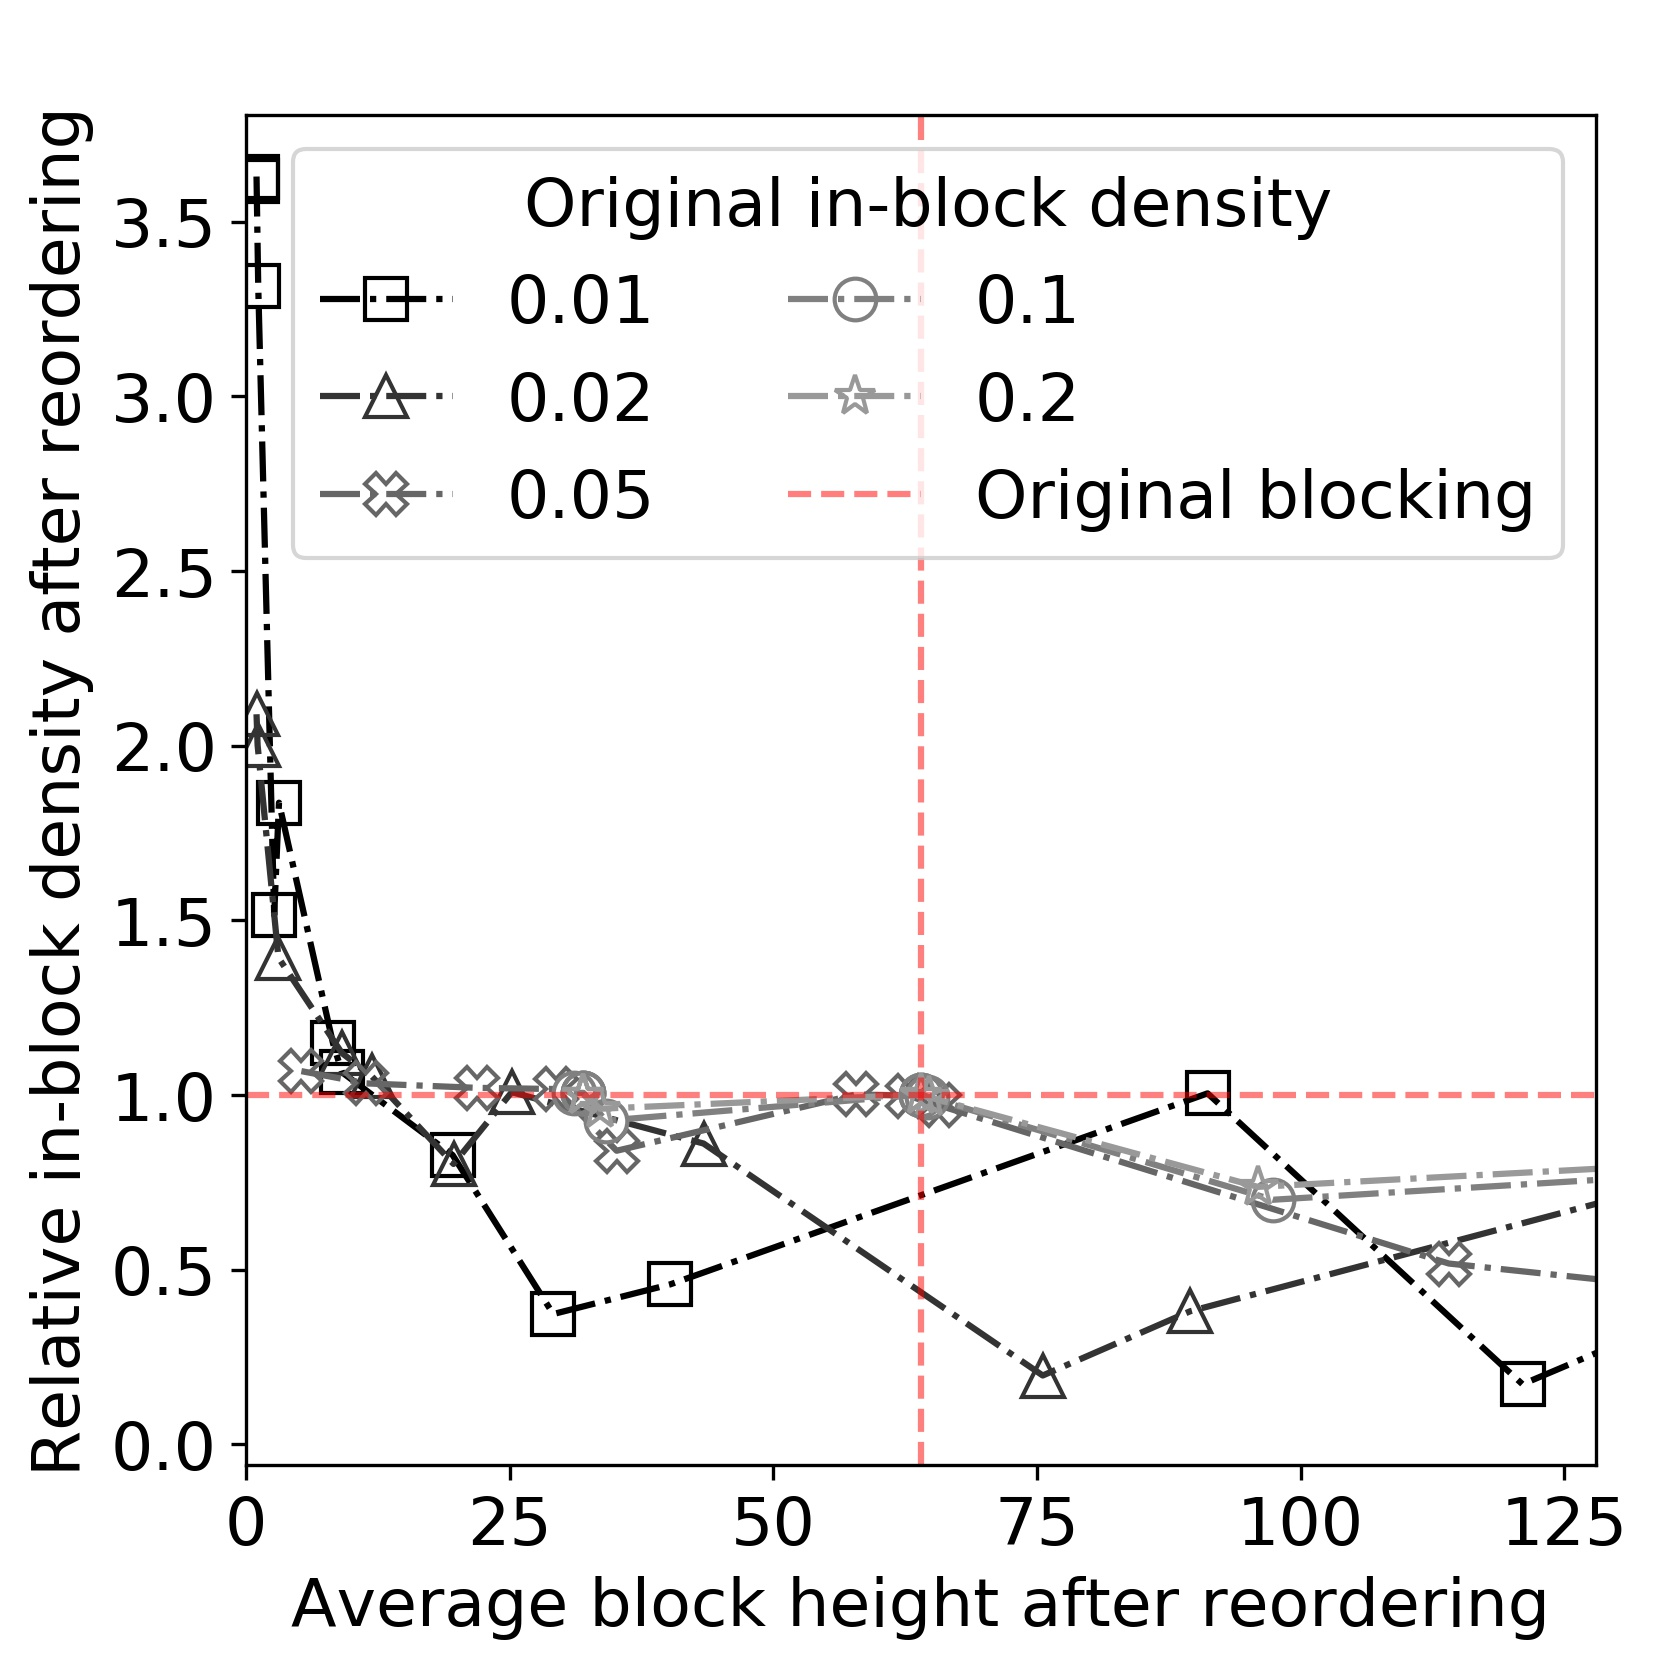
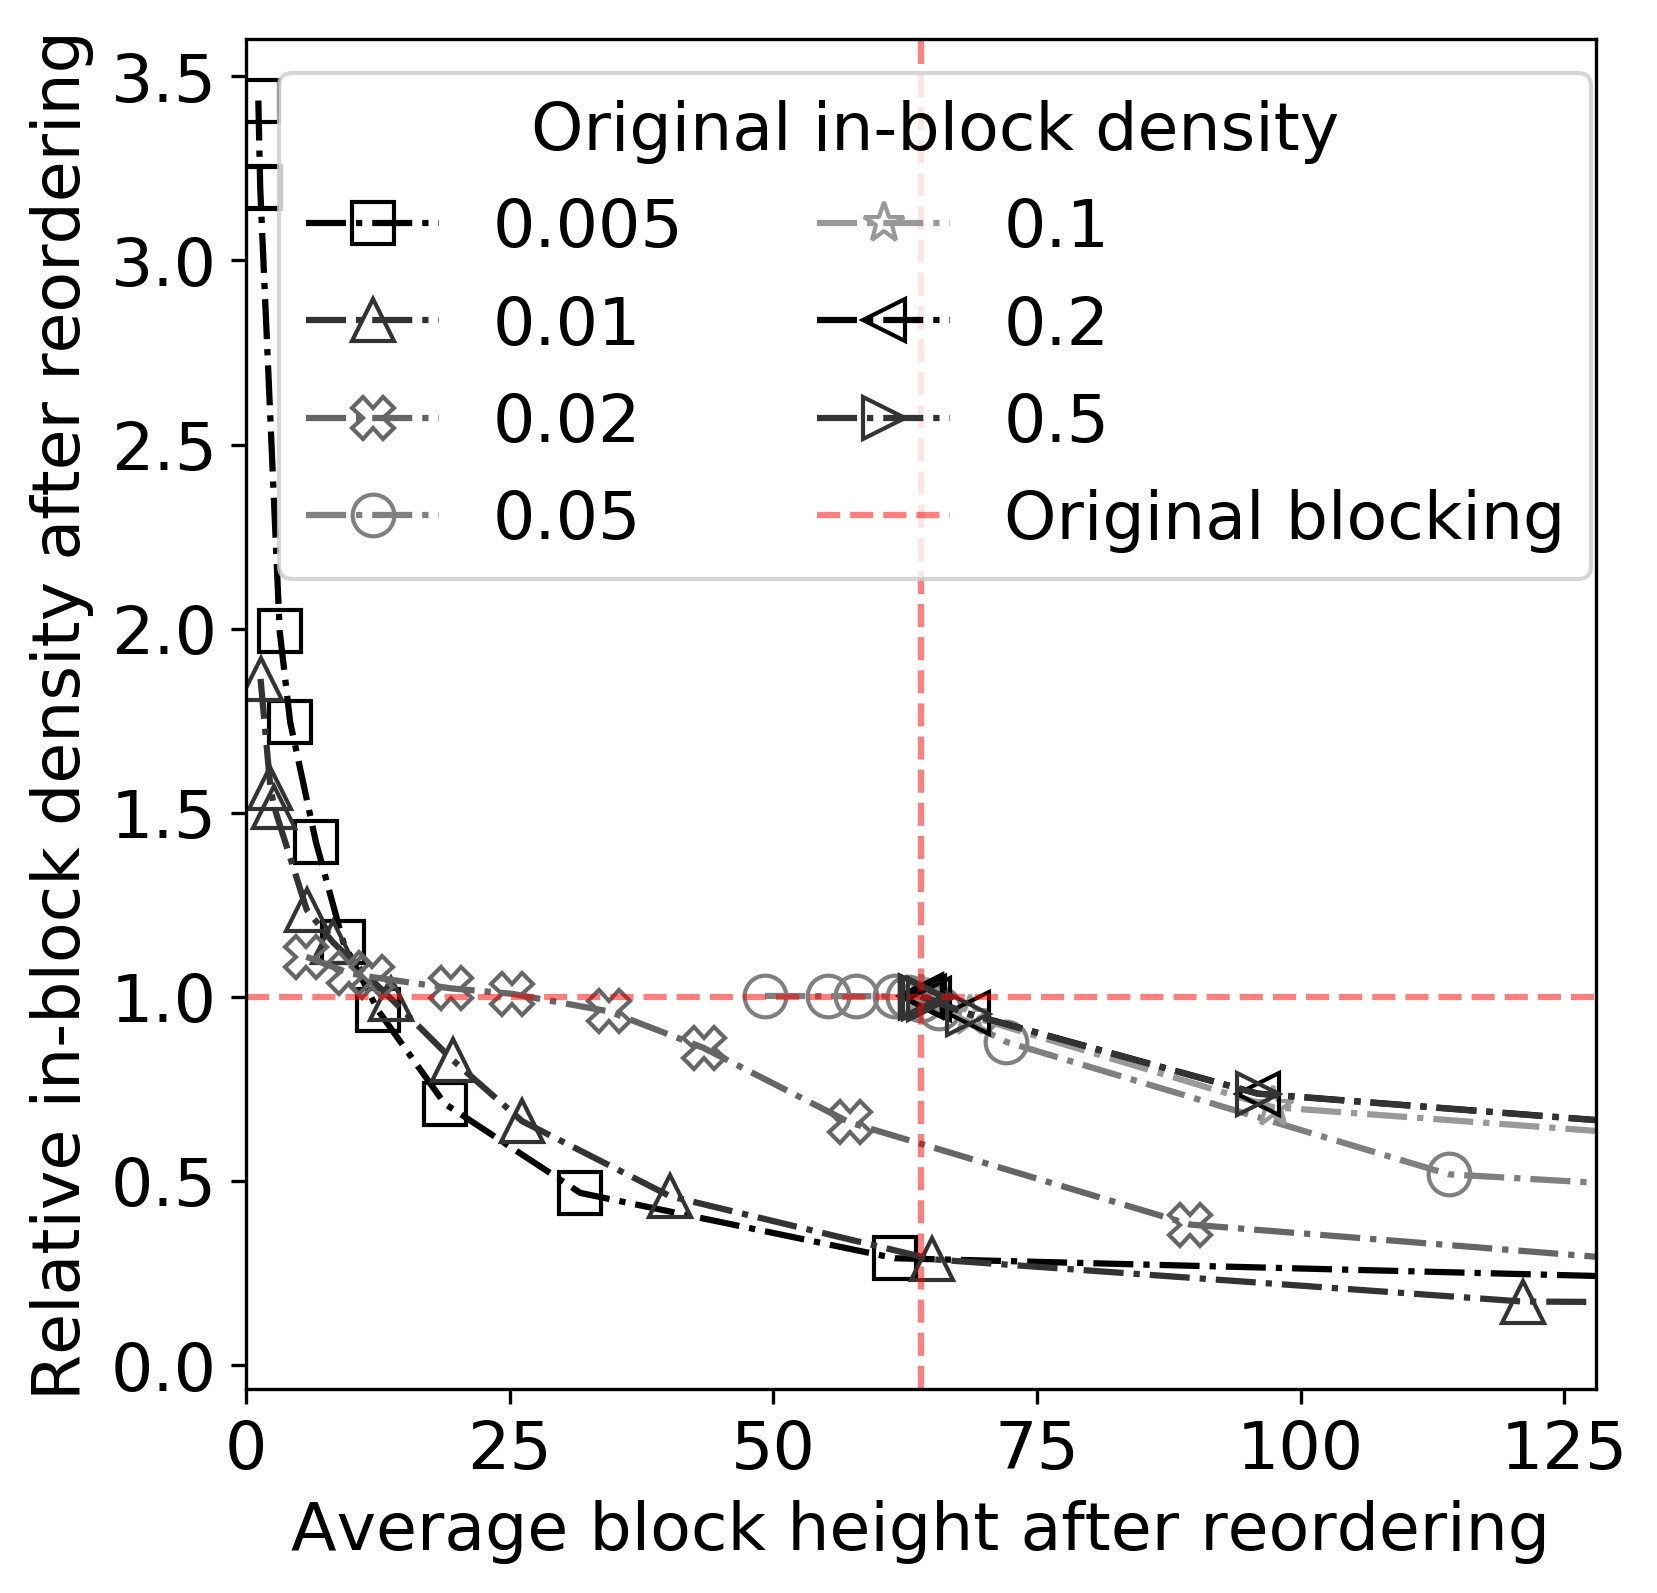
figs

Changed region(s): [[0.0, 0.0, 0.9849, 0.9843], [0.4925, 0.9535, 0.554, 0.9843]]

diff --git a/Pyhton_scripts/SPARTA_reorder_and_multiply_compare.py b/Pyhton_scripts/SPARTA_reorder_and_multiply_compare.py
@@ -38,14 +38,14 @@ if __name__ == "__main__":
     args = parser.parse_args()
 
     csvs = {};
-    csvs["SA"] = "../results/test_cublas_reordering-saad-01-07-2022.csv";
-    csvs["1-SA"] = "../results/test_cublas_reordering-12-16-2021.csv";
-    csvs["non_hierarchic"] = "../results/test_cublas_reordering-non-hierarchic-01-07-2022.csv";
-    csvs["cosine"] = "../results/test_cublas_reordering-scalar-01-06-2022.csv";
+    csvs["SA"] = "../results/test_cublas_reordering-saad-01-10-2022.csv";
+    csvs["1-SA"] = "../results/test_cublas_reordering-synthetic-01-11-2022.csv";
+    csvs["non_hierarchic"] = "../results/test_cublas_reordering-non-hierarchic-01-11-2022.csv";
+    csvs["cosine"] = "../results/test_cublas_reordering-scalar-01-10-2022.csv";
     
     
     
-    save_folder = "../images/paper_images/"
+    save_folder = "../images/paper_images_new/"
     output_dir = "../images/";
                     
     plt.rcParams['font.size'] = 16
@@ -94,7 +94,8 @@ if __name__ == "__main__":
     vardict_us = {"input_block_size" : 64, "merge_limit" : -1}
     vardict_them = {"input_block_size" : 64, "merge_limit" : 0}
 
-    compare_heatmap(dfs["1-SA"], dfs["cosine"], vardict_us, vardict_them)
+    compare_heatmap(dfs["1-SA"], dfs["cosine"], vardict_us, vardict_them, save_folder = save_folder)
+    compare_heatmap(dfs["1-SA"], dfs["SA"], vardict_us, vardict_them, save_folder = save_folder)
 
     
     variables_dict = {"rows": 8192, "cols": 8192, "input_blocks_density" : 0.1, "merge_limit" : 0}

diff --git a/Pyhton_scripts/SPARTA_reorder_and_multiply_analysis_real.py b/Pyhton_scripts/SPARTA_reorder_and_multiply_analysis_real.py
@@ -61,6 +61,18 @@ if do_all:
 
 save_folder = "../images/paper_images_real/"
 
-variables_dict = {"reorder_algorithm": "'saad_blocks'", "merge_limit" : 0, "epsilon" : 0.1, "B_cols" : 4096, "hierarchic_merge": 1}
+variables_dict = {"reorder_algorithm": "'saad_blocks'", "merge_limit" : -1, "epsilon" : 0.5, "B_cols" : 4096, "hierarchic_merge": 1}
 #real_blocking_curve(results_df, variables_dict, variable = "input_source")        
-bar_plot_together(results_df, variables_dict, save_folder = save_folder);
+#bar_plot_together(results_df, variables_dict, save_folder = save_folder, name = "very_small");
+
+for graph in results_df["input_source"].unique():
+    variables_dict = {"input_source": "'" + graph + "'" , "reorder_algorithm": "'saad_blocks'", "merge_limit" : -1, "epsilon" : 0.5, "B_cols" : 4096, "hierarchic_merge": 1}
+    q = build_query(variables_dict);
+    this_df = results_df.query(q)
+    print(graph.split(".")[0], "&")
+    print(this_df["rows"].values[0], "&")
+    print(this_df["total_nonzeros"].values[0], "&")
+    print(format(this_df["input_density"].values[0],".4f"), "\\\\")
+
+
+

diff --git a/Pyhton_scripts/analysis_tools.py b/Pyhton_scripts/analysis_tools.py
@@ -440,7 +440,7 @@ def bar_plot_together(results_df, variables_dict, save_folder = "../images/perfo
     this_df.sort_values("input_density", ascending = False, inplace = True)
     graphs = this_df["input_source"].unique();
     measures = ['cusparse_spmm_mean(ms)','VBSmm_algo_mean(ms)']
-    deltas = this_df["algo_block_size"].unique();
+    deltas = np.sort(this_df["algo_block_size"].unique());
     bars = len(deltas) + 1
     
     #plt.style.use('grayscale')    
@@ -565,9 +565,6 @@ def compare_heatmap(original_df, compare_df, original_variables_dict, compare_va
             first_val = 1;
             yp = np.append(first_val,yp)        
 
-            
-        print("meow", xp, "meow")
-        print(yp)
     
         f = interpolate.interp1d(xp,yp,kind = 'slinear')
         val = f(b_size)
